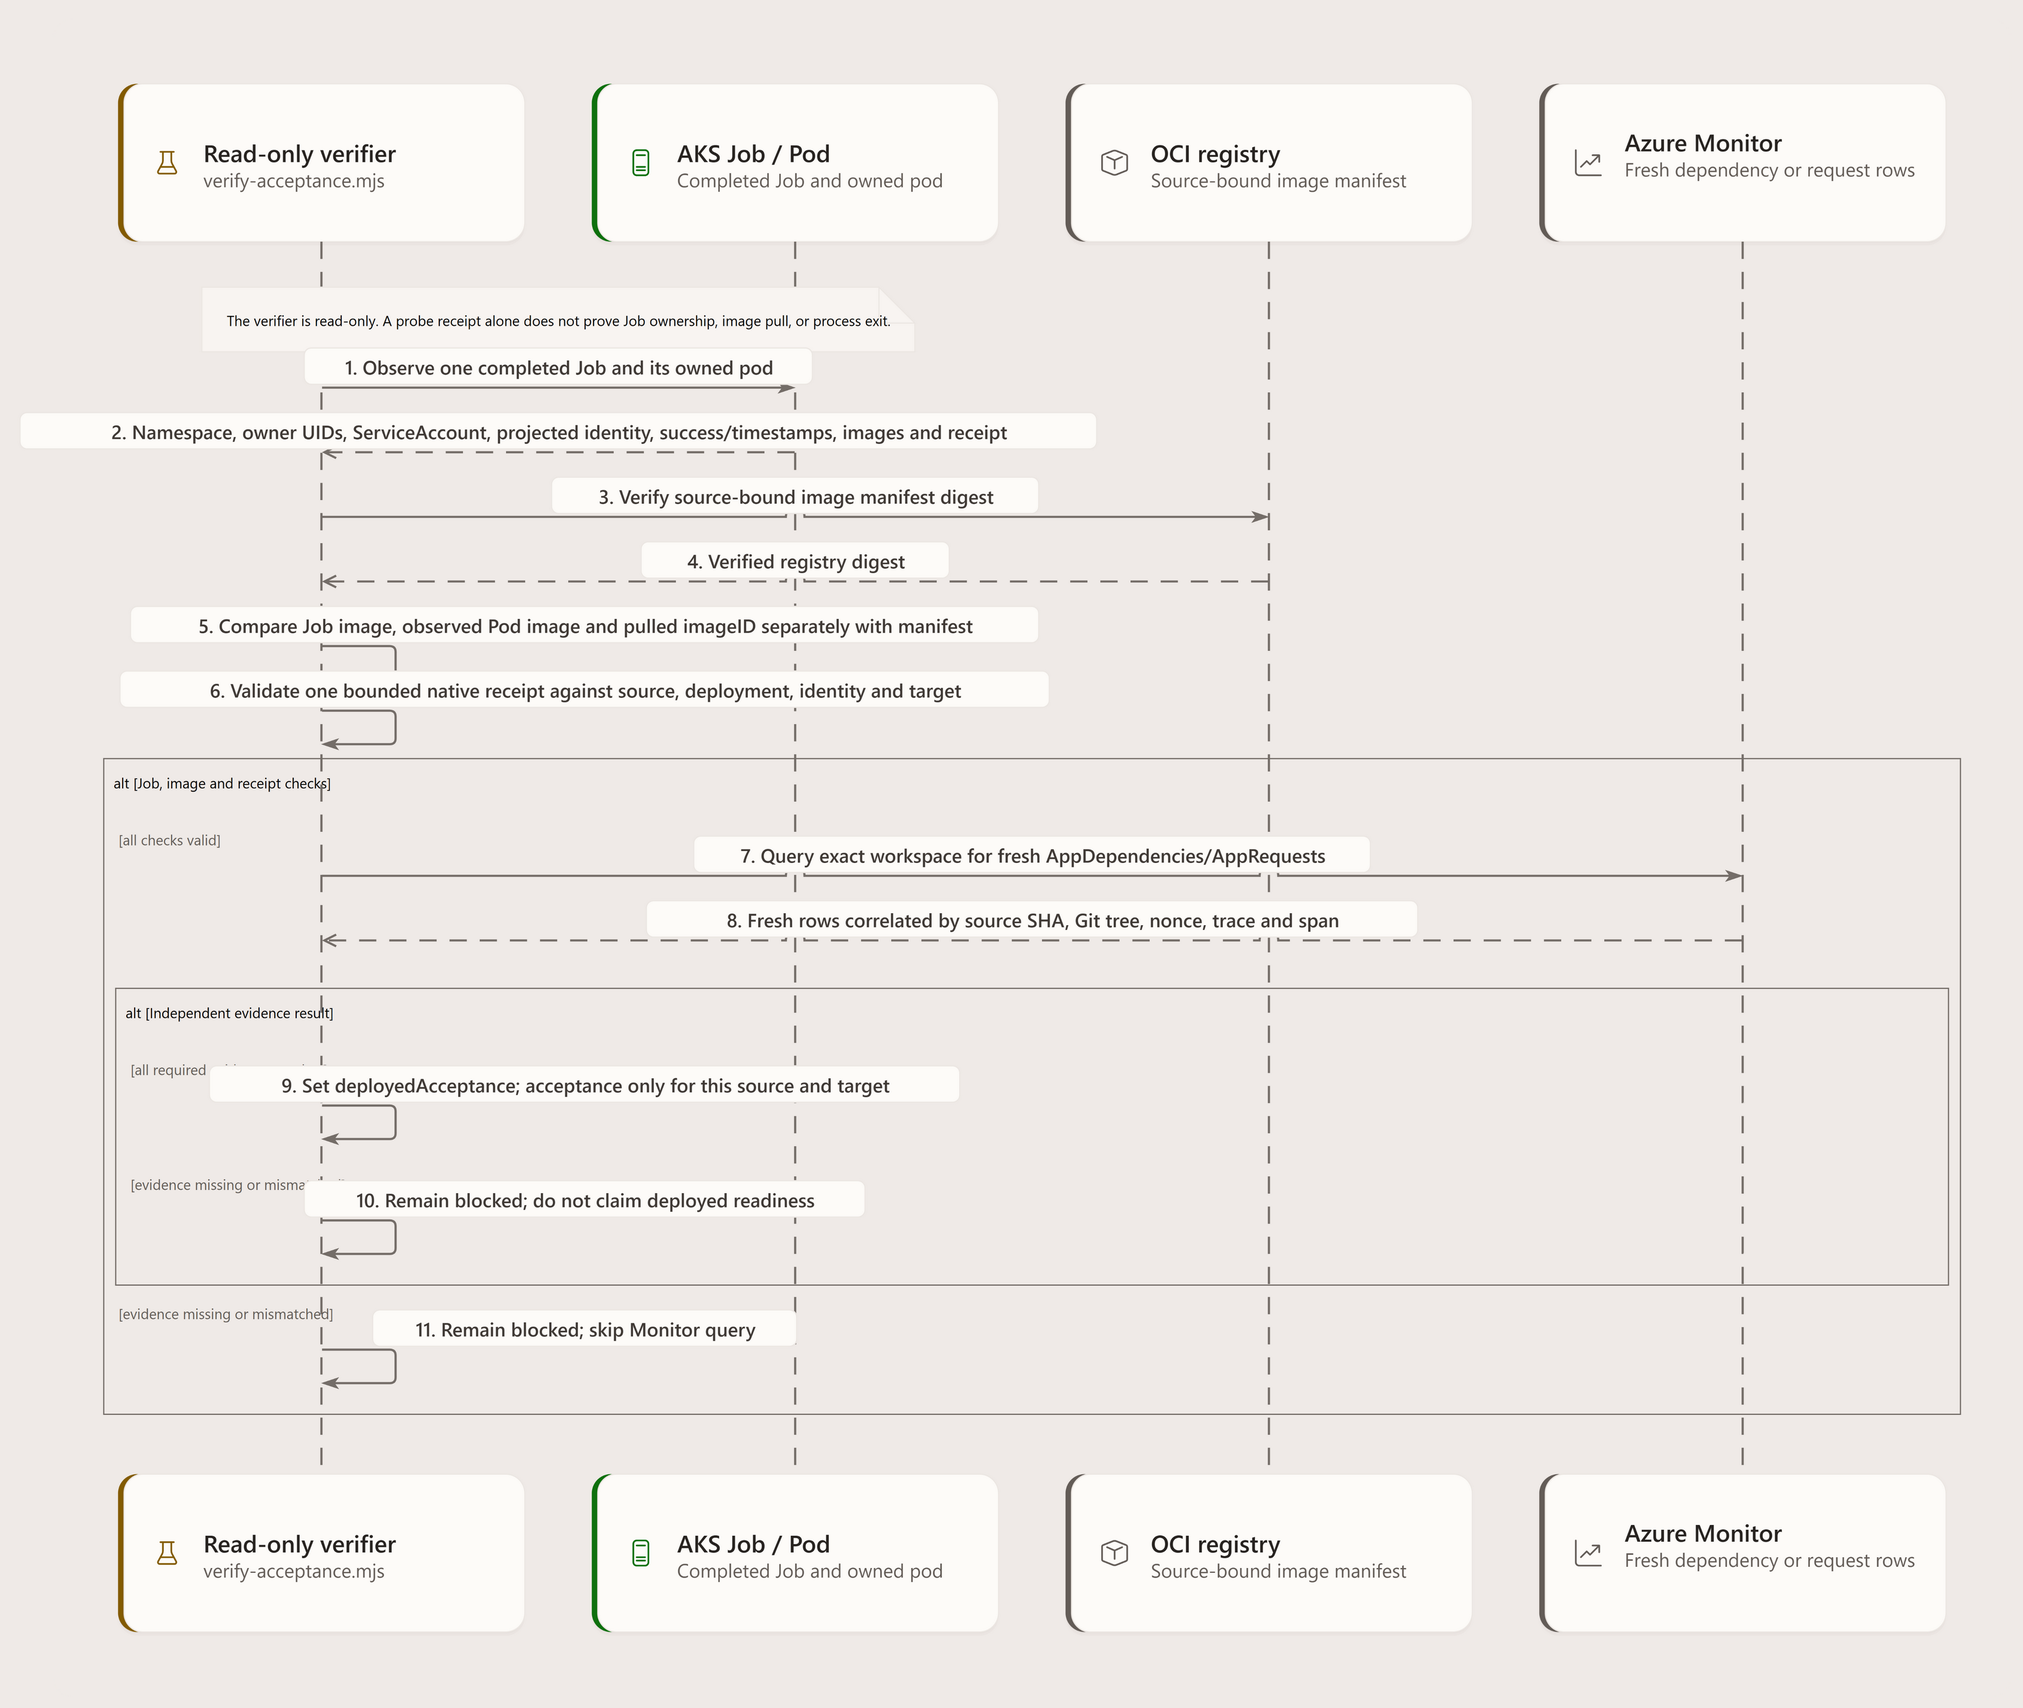
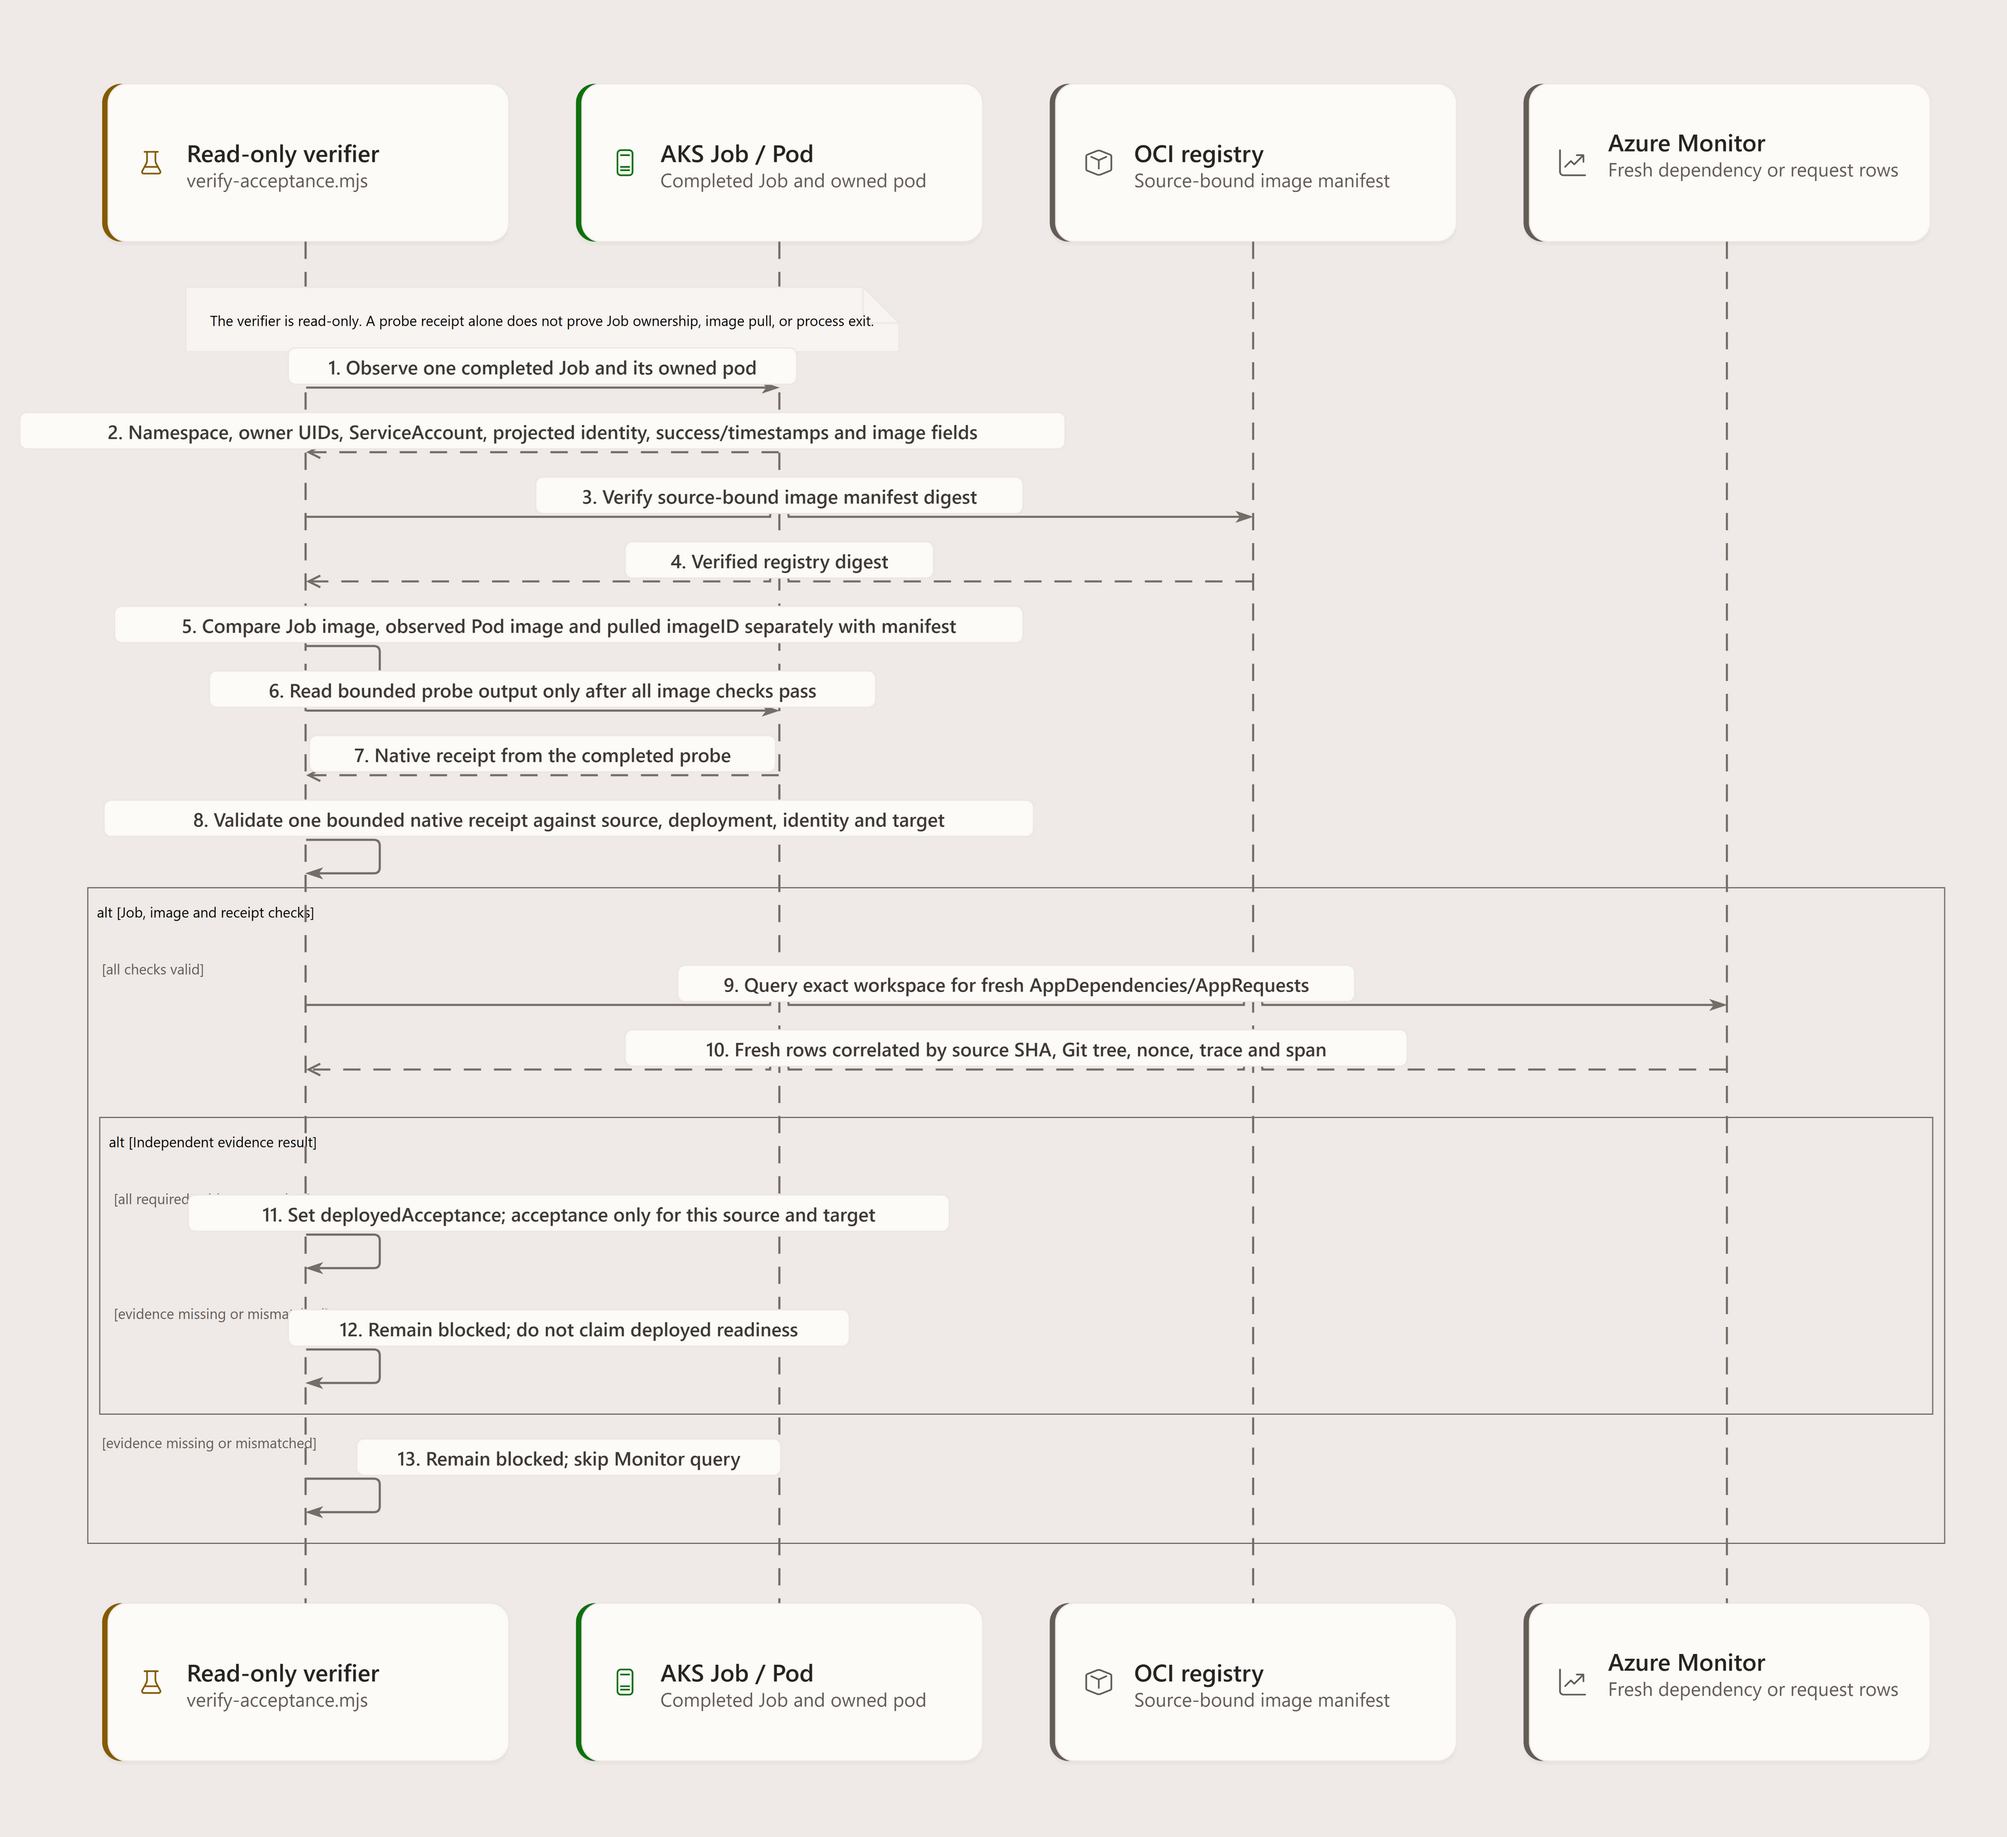
docs: correct Azure acceptance evidence flow

diff --git a/docs/architecture/overview.md b/docs/architecture/overview.md
@@ -4,7 +4,7 @@ The v1 source builds independent .NET components. Contracts separate provider-ne
 
 The Identity Broker is the host for caller authentication and secret-redemption authorization. It constructs the Key Vault backend and the authorization wrapper; it is a service host in source, not a claim that a service is deployed.
 
-The Foundation Probe composes the provider resolver, PostgreSQL, Key Vault, Blob, and Azure Monitor adapters for acceptance checks. It is not an agent runtime.
+The Foundation Probe resolves provider descriptors and pins binding evidence for acceptance checks. The IDs `azure-blob`, `azure-key-vault`, and `azure-monitor` identify catalog entries; they do not instantiate adapters. `AzureProbeOperations` separately constructs the Key Vault and Blob classes, while `Program` registers telemetry composition. The probe is not an agent runtime.
 
 ## Canonical component overview
 
@@ -29,10 +29,10 @@ The figure is a structural component view, not runtime request order or deployme
 | Host or ID | Composition or registration | Meaning |
 | --- | --- | --- |
 | Identity Broker | Constructs `AzureKeyVaultSecretRedemption` as an `ISecretRedemption` backend and constructs `AuthorizedSecretRedemption` with the grant authority and backend. | The wrapper checks actor, project, run, purpose, and exact-version grants before backend redemption. The adapter does not authorize callers. |
-| Foundation Probe | Constructs `AzureBlobObjectStore` and `AzureKeyVaultSecretRedemption` for acceptance checks. | Acceptance executable only; not an application service host. |
-| `azure-blob` | Foundation Probe ObjectStore registration selects `AzureBlobObjectStore`. | Provider registration ID, not a class, library, or package name. |
-| `azure-key-vault` | Foundation Probe SecretRedemption registration selects `AzureKeyVaultSecretRedemption`. | Provider registration ID, not a class, library, or package name. |
-| `azure-monitor` | Foundation Probe telemetry registration. | Telemetry ID only; not a model vendor. |
+| Foundation Probe | `ProbeProviderBindings.ResolveAndPin` records provider IDs in pin evidence. Separately, `AzureProbeOperations` constructs `AzureBlobObjectStore` and `AzureKeyVaultSecretRedemption`; `Program` registers telemetry composition. | ID-based pinning does not construct adapters; the probe is an acceptance executable, not an application service host. |
+| `azure-blob` | ObjectStore provider ID recorded in Foundation Probe binding evidence. | Registration ID, not the `AzureBlobObjectStore` class, library, or constructor. |
+| `azure-key-vault` | SecretRedemption provider ID recorded in Foundation Probe binding evidence. | Registration ID, not the `AzureKeyVaultSecretRedemption` class, library, or constructor. |
+| `azure-monitor` | Telemetry provider ID recorded in Foundation Probe binding evidence. | Registration ID, not an exporter class, library, or model vendor. |
 
 ## Component boundaries and project references
 

diff --git a/docs/architecture/azure.md b/docs/architecture/azure.md
@@ -6,7 +6,7 @@ PostgreSQL, Key Vault, and Blob use private networking. Azure Monitor uses a pri
 
 <figure class="aw-diagram" tabindex="0">
   <a :href="'/agentweaver/v1/diagrams/flagship/v1-azure-foundation.png'">
-    <img :src="'/agentweaver/v1/diagrams/flagship/v1-azure-foundation.png'" alt="Structural Azure resource and evidence dependency map. AKS hosts the Foundation Probe Job; its identity and egress policy support it. The read-only evidence gate depends on Job and pod observations, the native receipt, a source-bound registry manifest, and correlated Azure Monitor evidence. Edges are not a time sequence; no live deployment or P0 completion is claimed." />
+    <img :src="'/agentweaver/v1/diagrams/flagship/v1-azure-foundation.png'" alt="Structural Azure topology and evidence map. The dedicated VNet has separate AKS-node, delegated PostgreSQL, and private-endpoint subnets; Key Vault, Blob, and AMPLS endpoints use the private-endpoint subnet. Workspace and App Insights are in eastus2; AMPLS is global. Bicep grants the Foundation Probe identity Key Vault Secrets User at the vault, Storage Blob Data Contributor at the storage account, Log Analytics Reader at the workspace, and Monitoring Metrics Publisher at App Insights. The read-only evidence gate depends on Job and pod observations, the native receipt, a source-bound registry manifest, and correlated Azure Monitor evidence. No live deployment or P0 completion is claimed." />
   </a>
   <figcaption>Structural resource and evidence dependencies. Bicep and Kustomize definitions are not a deployment record; the figure does not claim live readiness or P0 completion.</figcaption>
 </figure>
@@ -16,7 +16,7 @@ The following sequence shows the verifier's time-ordered, read-only checks after
 
 <figure class="aw-diagram" tabindex="0">
   <a :href="'/agentweaver/v1/diagrams/flagship/v1-azure-acceptance.png'">
-    <img :src="'/agentweaver/v1/diagrams/flagship/v1-azure-acceptance.png'" alt="After a Foundation Probe Job completes, the read-only verifier observes the Job and owned pod, independently checks the source-bound registry digest and receipt, then queries Azure Monitor for fresh correlated evidence. Missing or mismatched evidence remains blocked." />
+    <img :src="'/agentweaver/v1/diagrams/flagship/v1-azure-acceptance.png'" alt="After a Foundation Probe Job completes, the read-only verifier checks the source-bound registry manifest against the Job image, pod image, and pulled imageID before reading and validating the native receipt. It then queries Azure Monitor for fresh correlated evidence. Missing or mismatched evidence remains blocked." />
   </a>
   <figcaption>Ordered acceptance evidence checks, not a deployment sequence. Only complete source-, target-, image-, identity-, receipt-, and telemetry-bound evidence sets <code>deployedAcceptance</code>; this does not claim broader P0 readiness.</figcaption>
 </figure>
